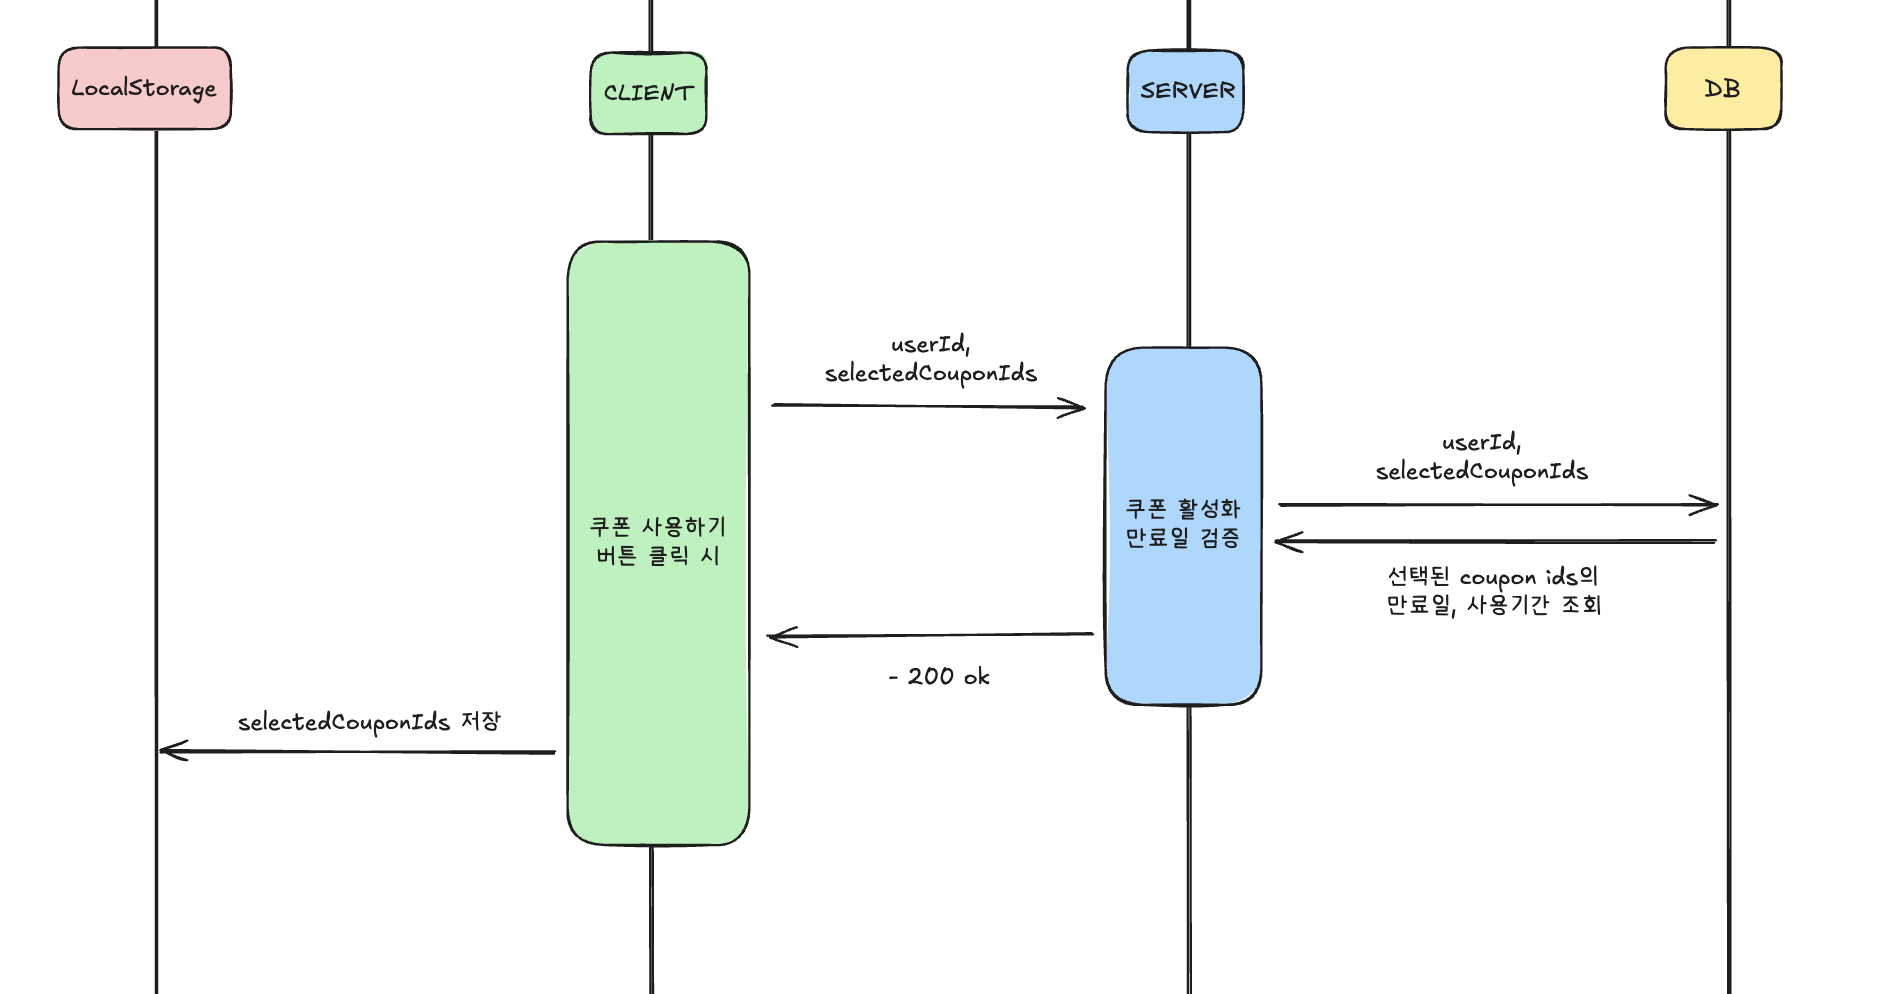
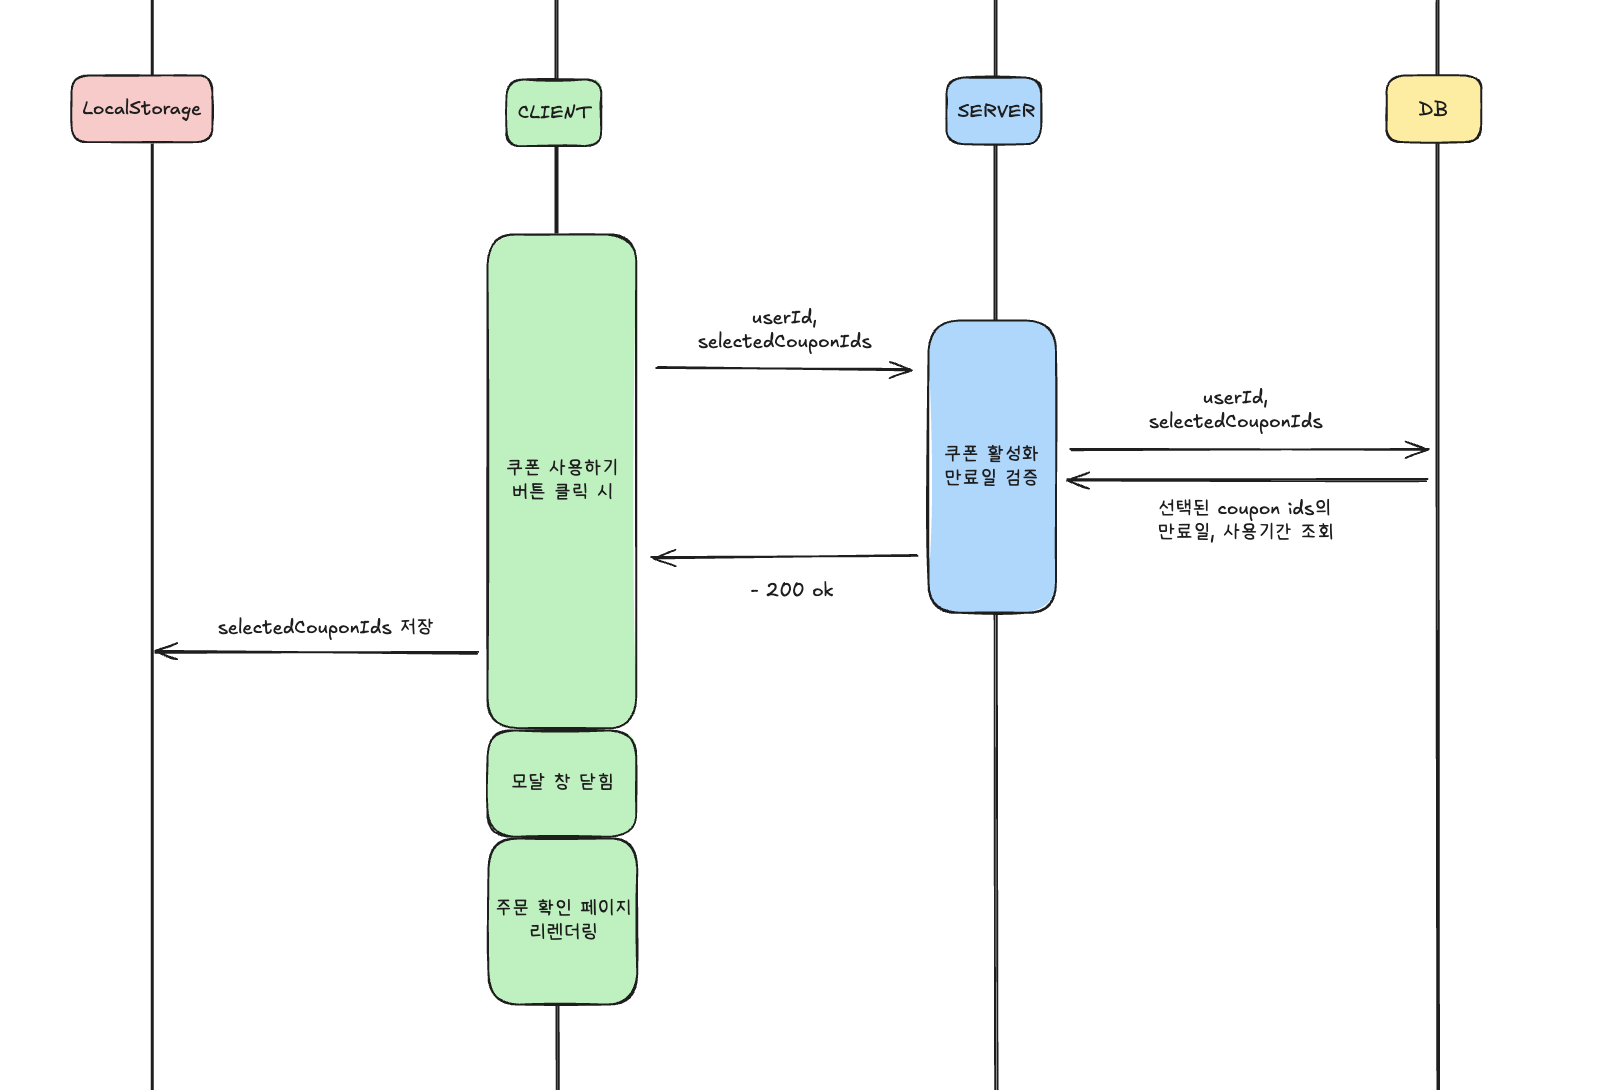
docs: 도식화 및 다이어그램 이미지 수정

diff --git a/docs/api.md b/docs/api.md
@@ -14,7 +14,11 @@
 }
 ```
 
-## 1. 주문 확인 페이지 진입 시 (주문 요약 계산)
+## 1. 주문 요약 계산
+
+> 주문 확인 페이지 첫 진입 시 호출되며, 사용자의 행동에 따라 금액이 확정되어야 할 때(쿠폰 적용 및 산간지역 토글 시), 재호출됩니다.
+
+> 변경의 이유는 다르더라도 결국 한 묶음의 주문 옵션으로 생각했기 때문에, 묶어서 하나의 API로 구현하였습니다.
 
 ```http
 POST /orders/summary
@@ -76,19 +80,17 @@ POST /orders/summary
 | `400 Bad Request` | `EXCEEDS_COUPON_LIMIT`  | 적용하려는 쿠폰이 최대 적용 개수(2장)를 초과한 경우         |
 | `400 Bad Request` | `COUPON_NOT_APPLICABLE` | 만료·사용 완료·적용 조건 미달 등 적용할 수 없는 쿠폰인 경우 |
 
-## 2. 쿠폰 적용하기 클릭 시 (쿠폰 목록 조회)
+## 2. 쿠폰 목록 조회
 
 ```http
-GET /coupons?selectedCartItemIds=10,12
+GET /coupons
 ```
-
-> GET 요청은 body를 가질 수 없으므로, 선택된 장바구니 상품 id는 query string으로 전달한다.
 
 ### Request
 
-| 이름                  | 위치  | 필수 여부 | 설명                                     |
-| --------------------- | ----- | --------- | ---------------------------------------- |
-| `selectedCartItemIds` | query | 필수      | 선택된 장바구니 상품 id 배열 (쉼표 구분) |
+```json
+요청 파라미터가 없습니다.
+```
 
 ### Response
 
@@ -112,7 +114,7 @@ GET /coupons?selectedCartItemIds=10,12
       "couponName": "30% 할인 쿠폰",
       "discountType": "정률",
       "isApplicable": true,
-      "discountAmount": 30000
+      "discountAmount": 30
     }
   ]
 }
@@ -133,45 +135,3 @@ GET /coupons?selectedCartItemIds=10,12
 | ----------------- | ----------------------- | -------------------------------------------------------- |
 | `400 Bad Request` | `INVALID_CART_ITEM_IDS` | `selectedCartItemIds`가 없거나 형식이 유효하지 않은 경우 |
 | `404 Not Found`   | `CART_ITEM_NOT_FOUND`   | 해당 `cartItemId`의 장바구니 상품이 존재하지 않는 경우   |
-
-## 3. 사용 쿠폰 유효기간 검증
-
-```http
-POST /coupons/validate
-```
-
-### Request
-
-```json
-{
-  "selectedCouponIds": ["1", "3"]
-}
-```
-
-| 이름                | 필수 여부 | 설명                           |
-| ------------------- | --------- | ------------------------------ |
-| `selectedCouponIds` | 필수      | 검증할 쿠폰 id 배열 (최대 2개) |
-
-### Response
-
-`204 No Content`
-
-모든 쿠폰이 유효하면 응답 본문 없이 성공을 반환한다.
-
-### Error
-
-`400 Bad Request` 또는 `404 Not Found`
-
-```json
-{
-  "code": "COUPON_EXPIRED",
-  "message": "유효기간이 지난 쿠폰입니다."
-}
-```
-
-| 상태 코드         | 에러 코드              | 설명                                                |
-| ----------------- | ---------------------- | --------------------------------------------------- |
-| `404 Not Found`   | `COUPON_NOT_FOUND`     | 해당 `couponId`의 쿠폰이 존재하지 않는 경우         |
-| `400 Bad Request` | `COUPON_EXPIRED`       | 쿠폰의 유효기간이 지난 경우                         |
-| `400 Bad Request` | `COUPON_ALREADY_USED`  | 이미 사용한 쿠폰인 경우                             |
-| `400 Bad Request` | `EXCEEDS_COUPON_LIMIT` | 검증하려는 쿠폰이 최대 적용 개수(2장)를 초과한 경우 |
